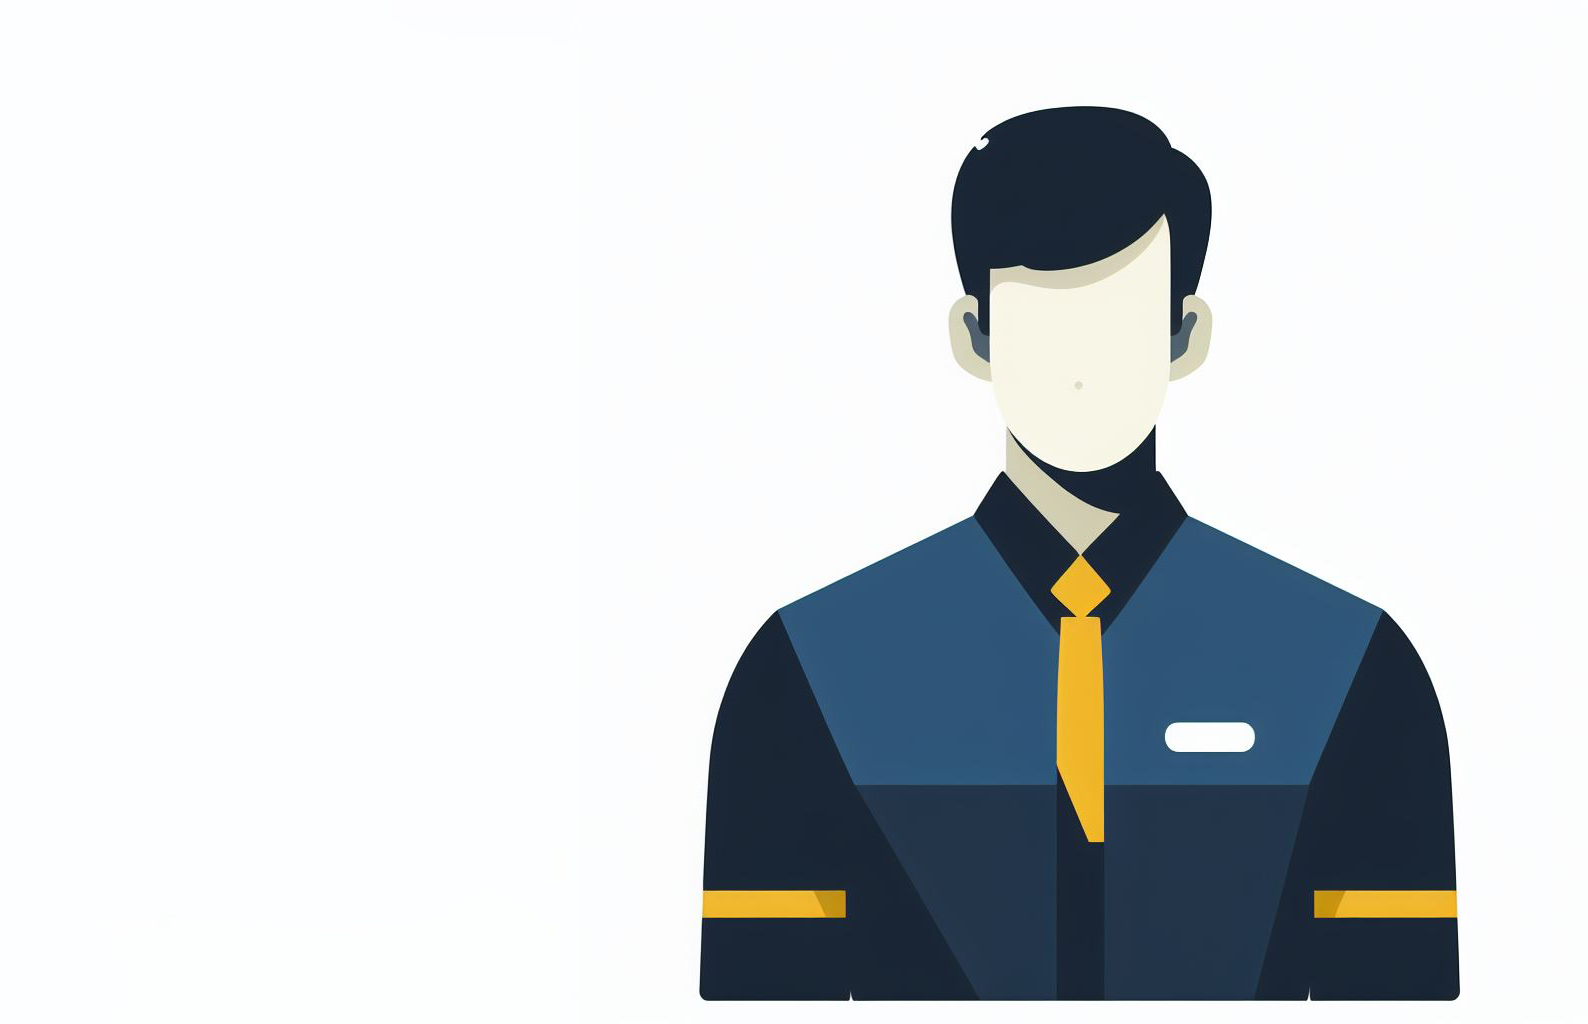
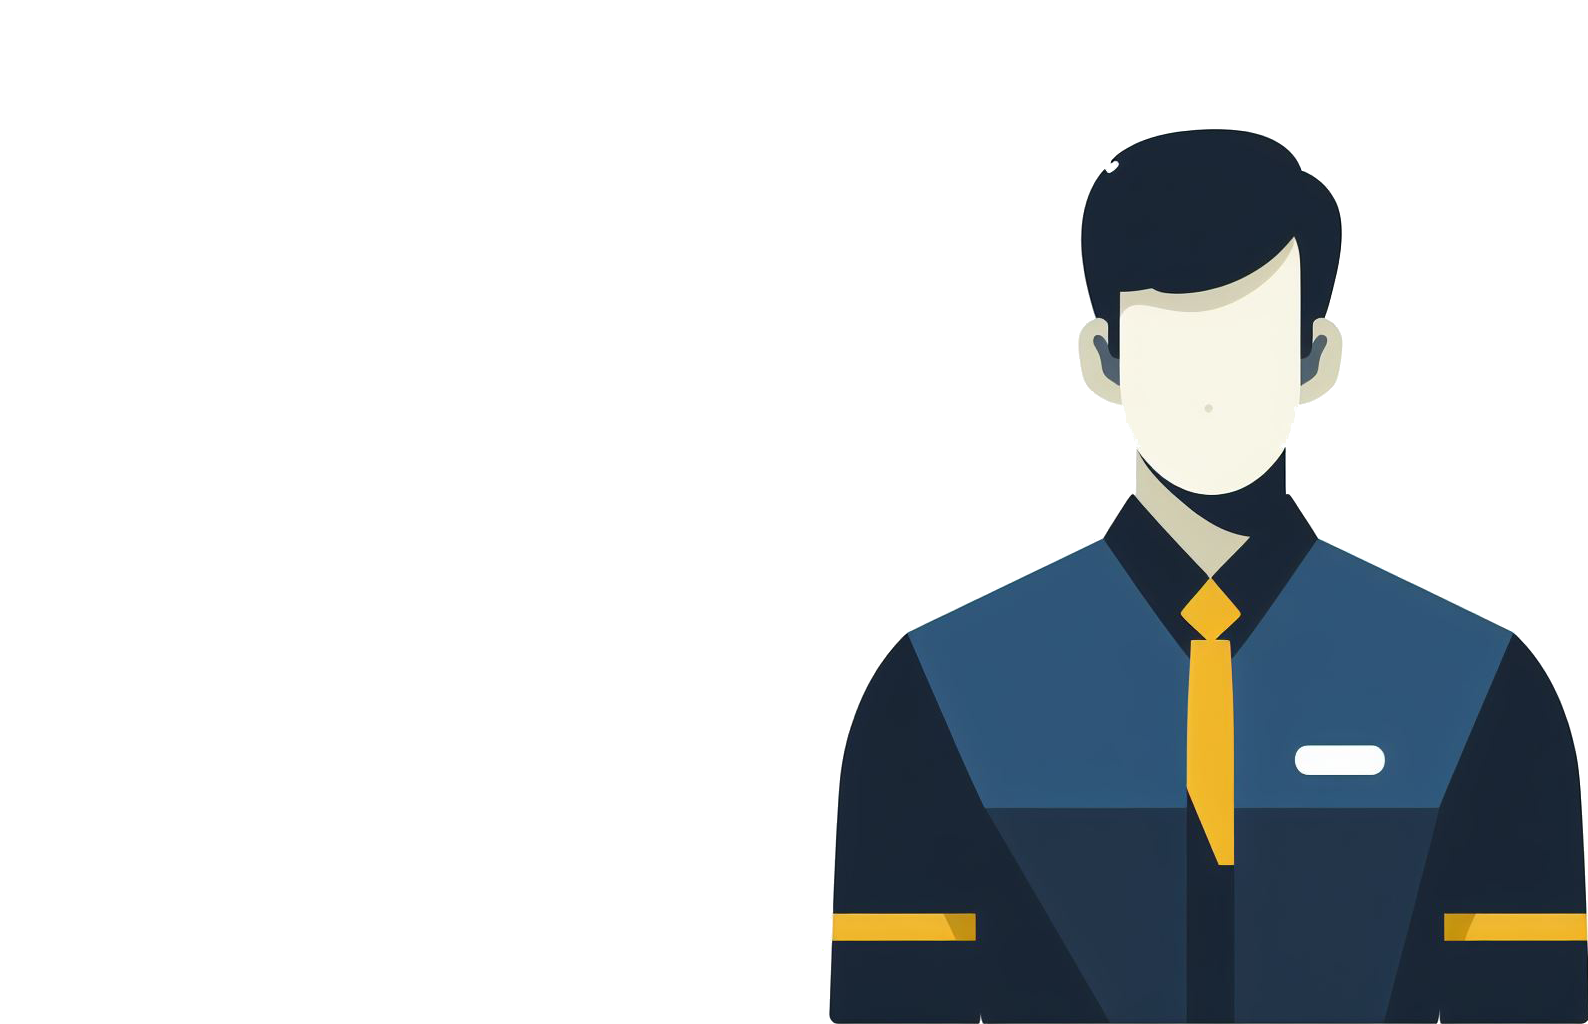
Update staff index background.

Changed region(s): [[0.432, 0.0938, 1.0, 1.0]]

diff --git a/src/main/webapp/assets/styles/staffindex.css b/src/main/webapp/assets/styles/staffindex.css
@@ -4,6 +4,9 @@
     background-image: url(../images/appointment/managerindex.png);  ***manager index img */
     display: flex;
     align-items: center;
+    background-position: bottom right;
+    background-size: contain;
+    background-repeat: no-repeat;
 }
 
 .main-header {
@@ -11,7 +14,7 @@
     color: aliceblue;
     padding: 10px 20px;
     text-align: center;
-    width:fit-content;
+    width: fit-content;
     border-radius: 20px;
 }
 
